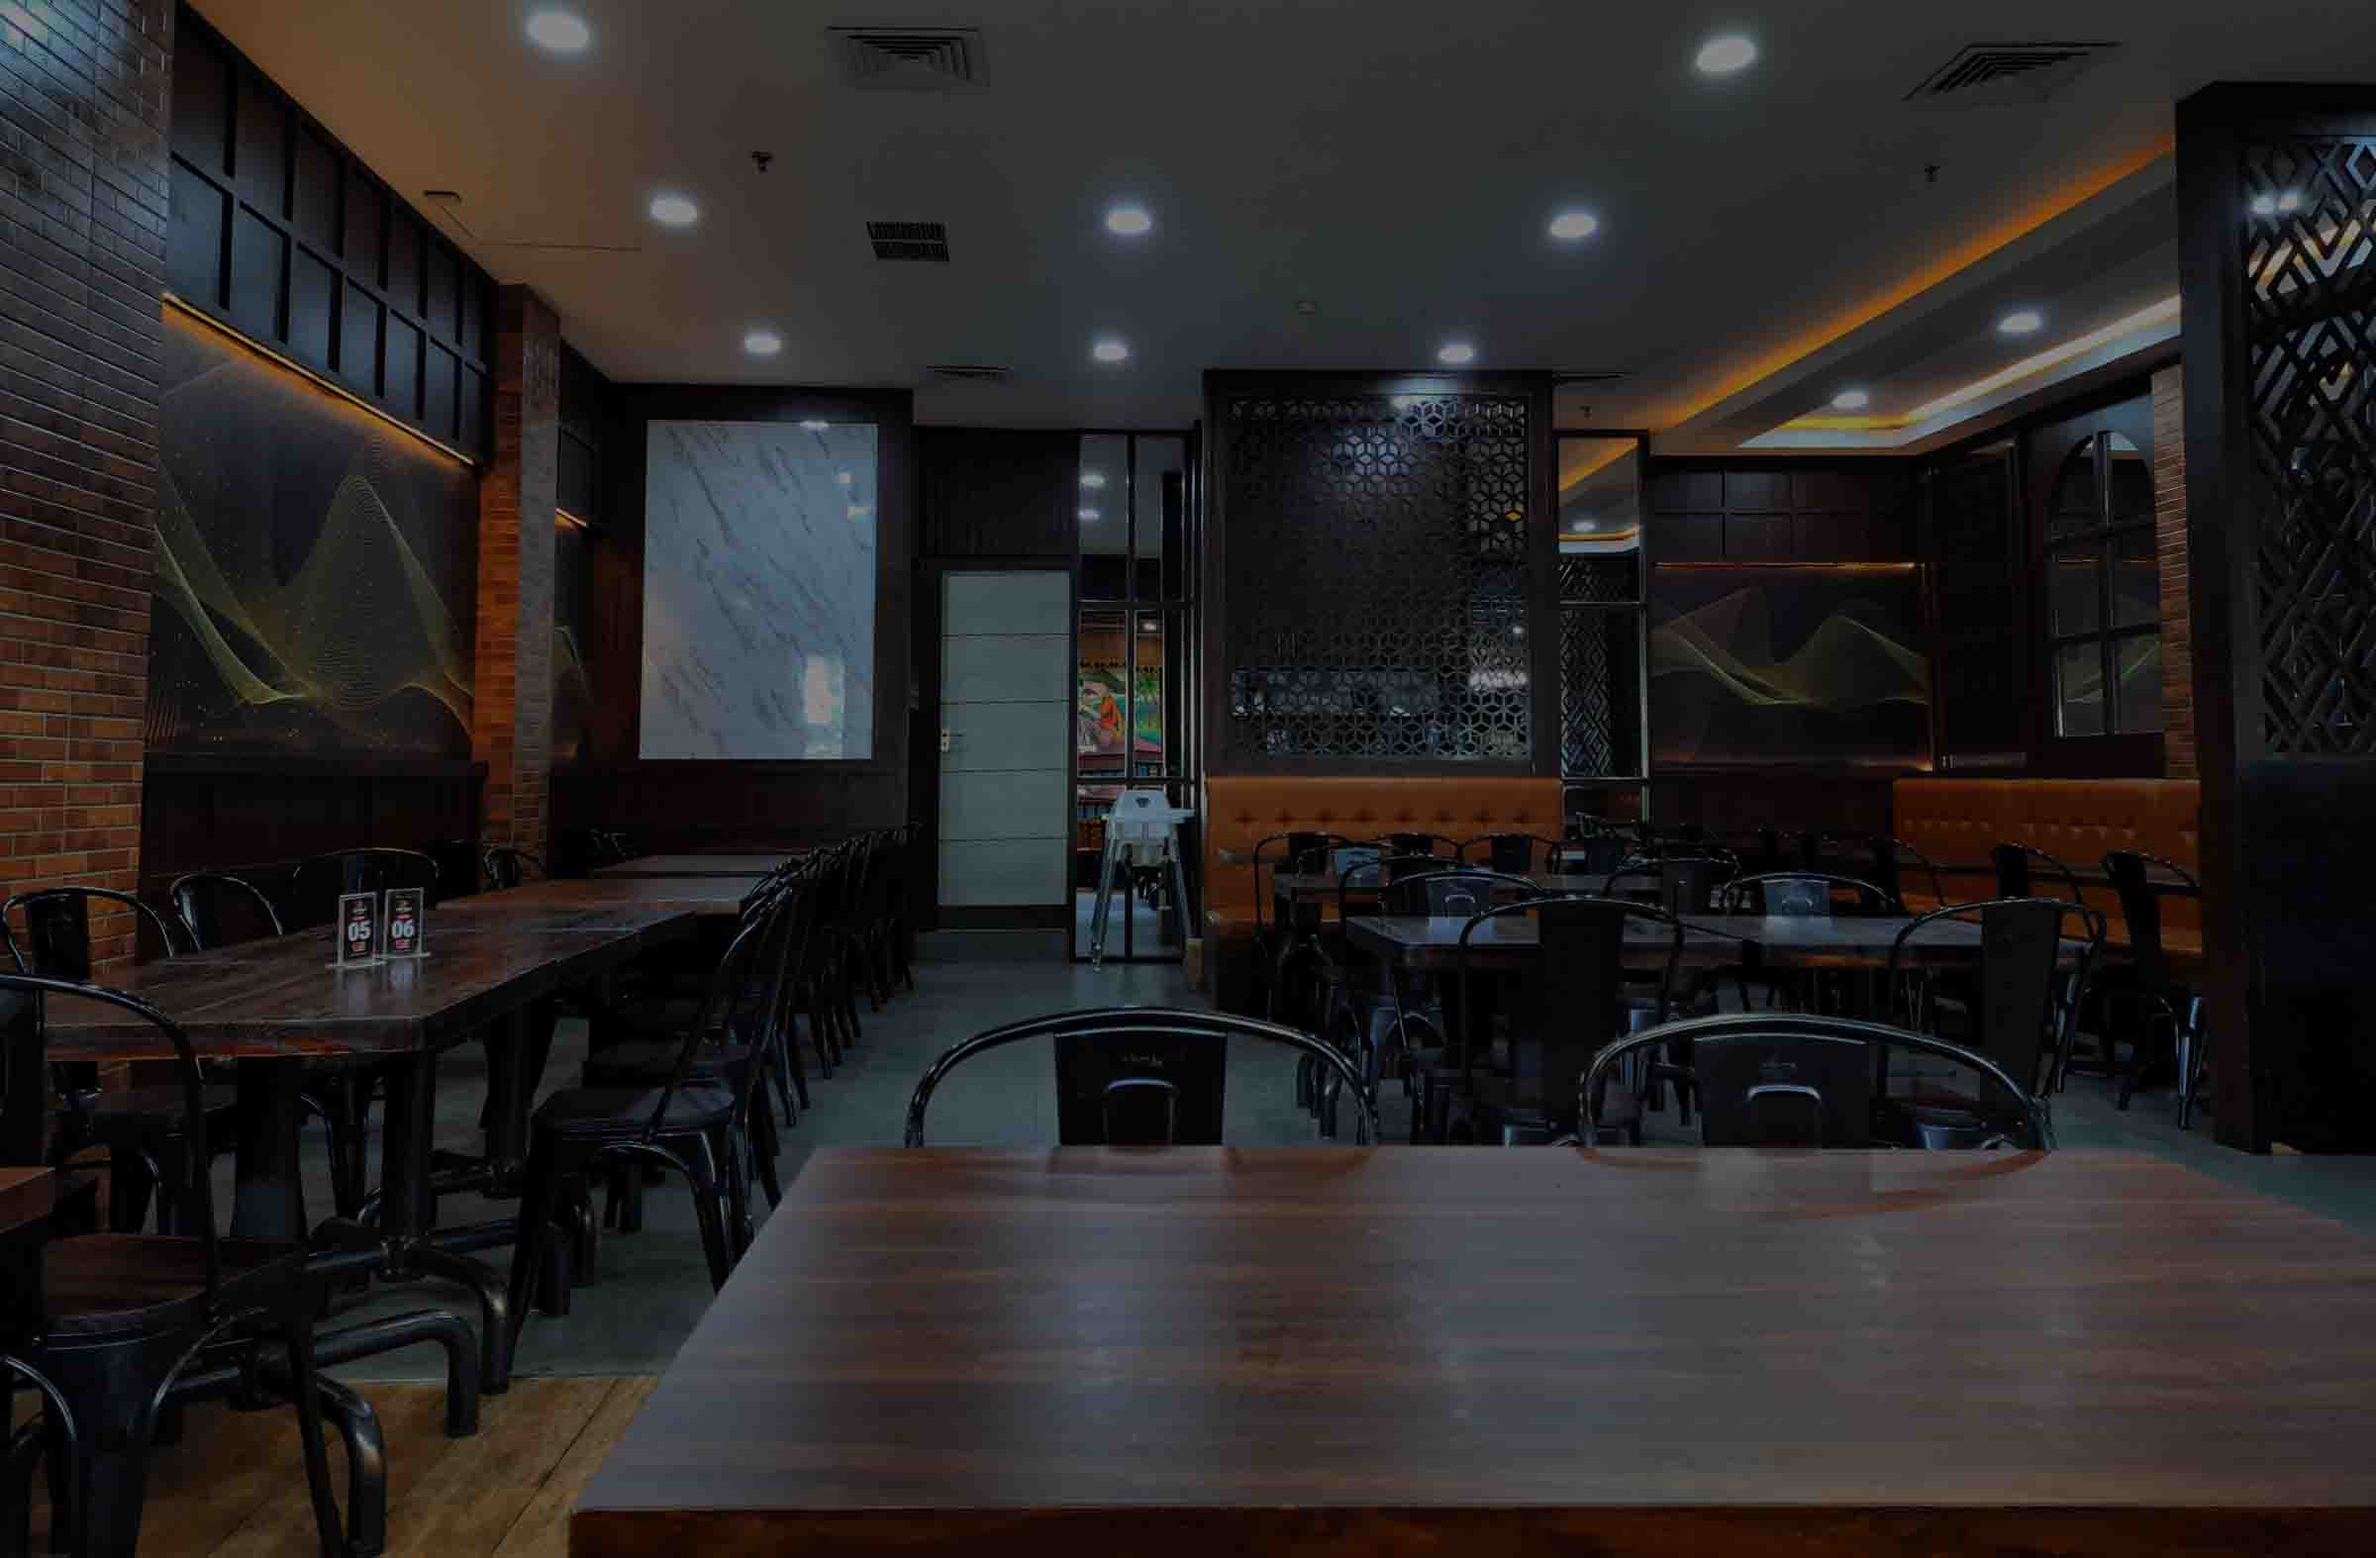
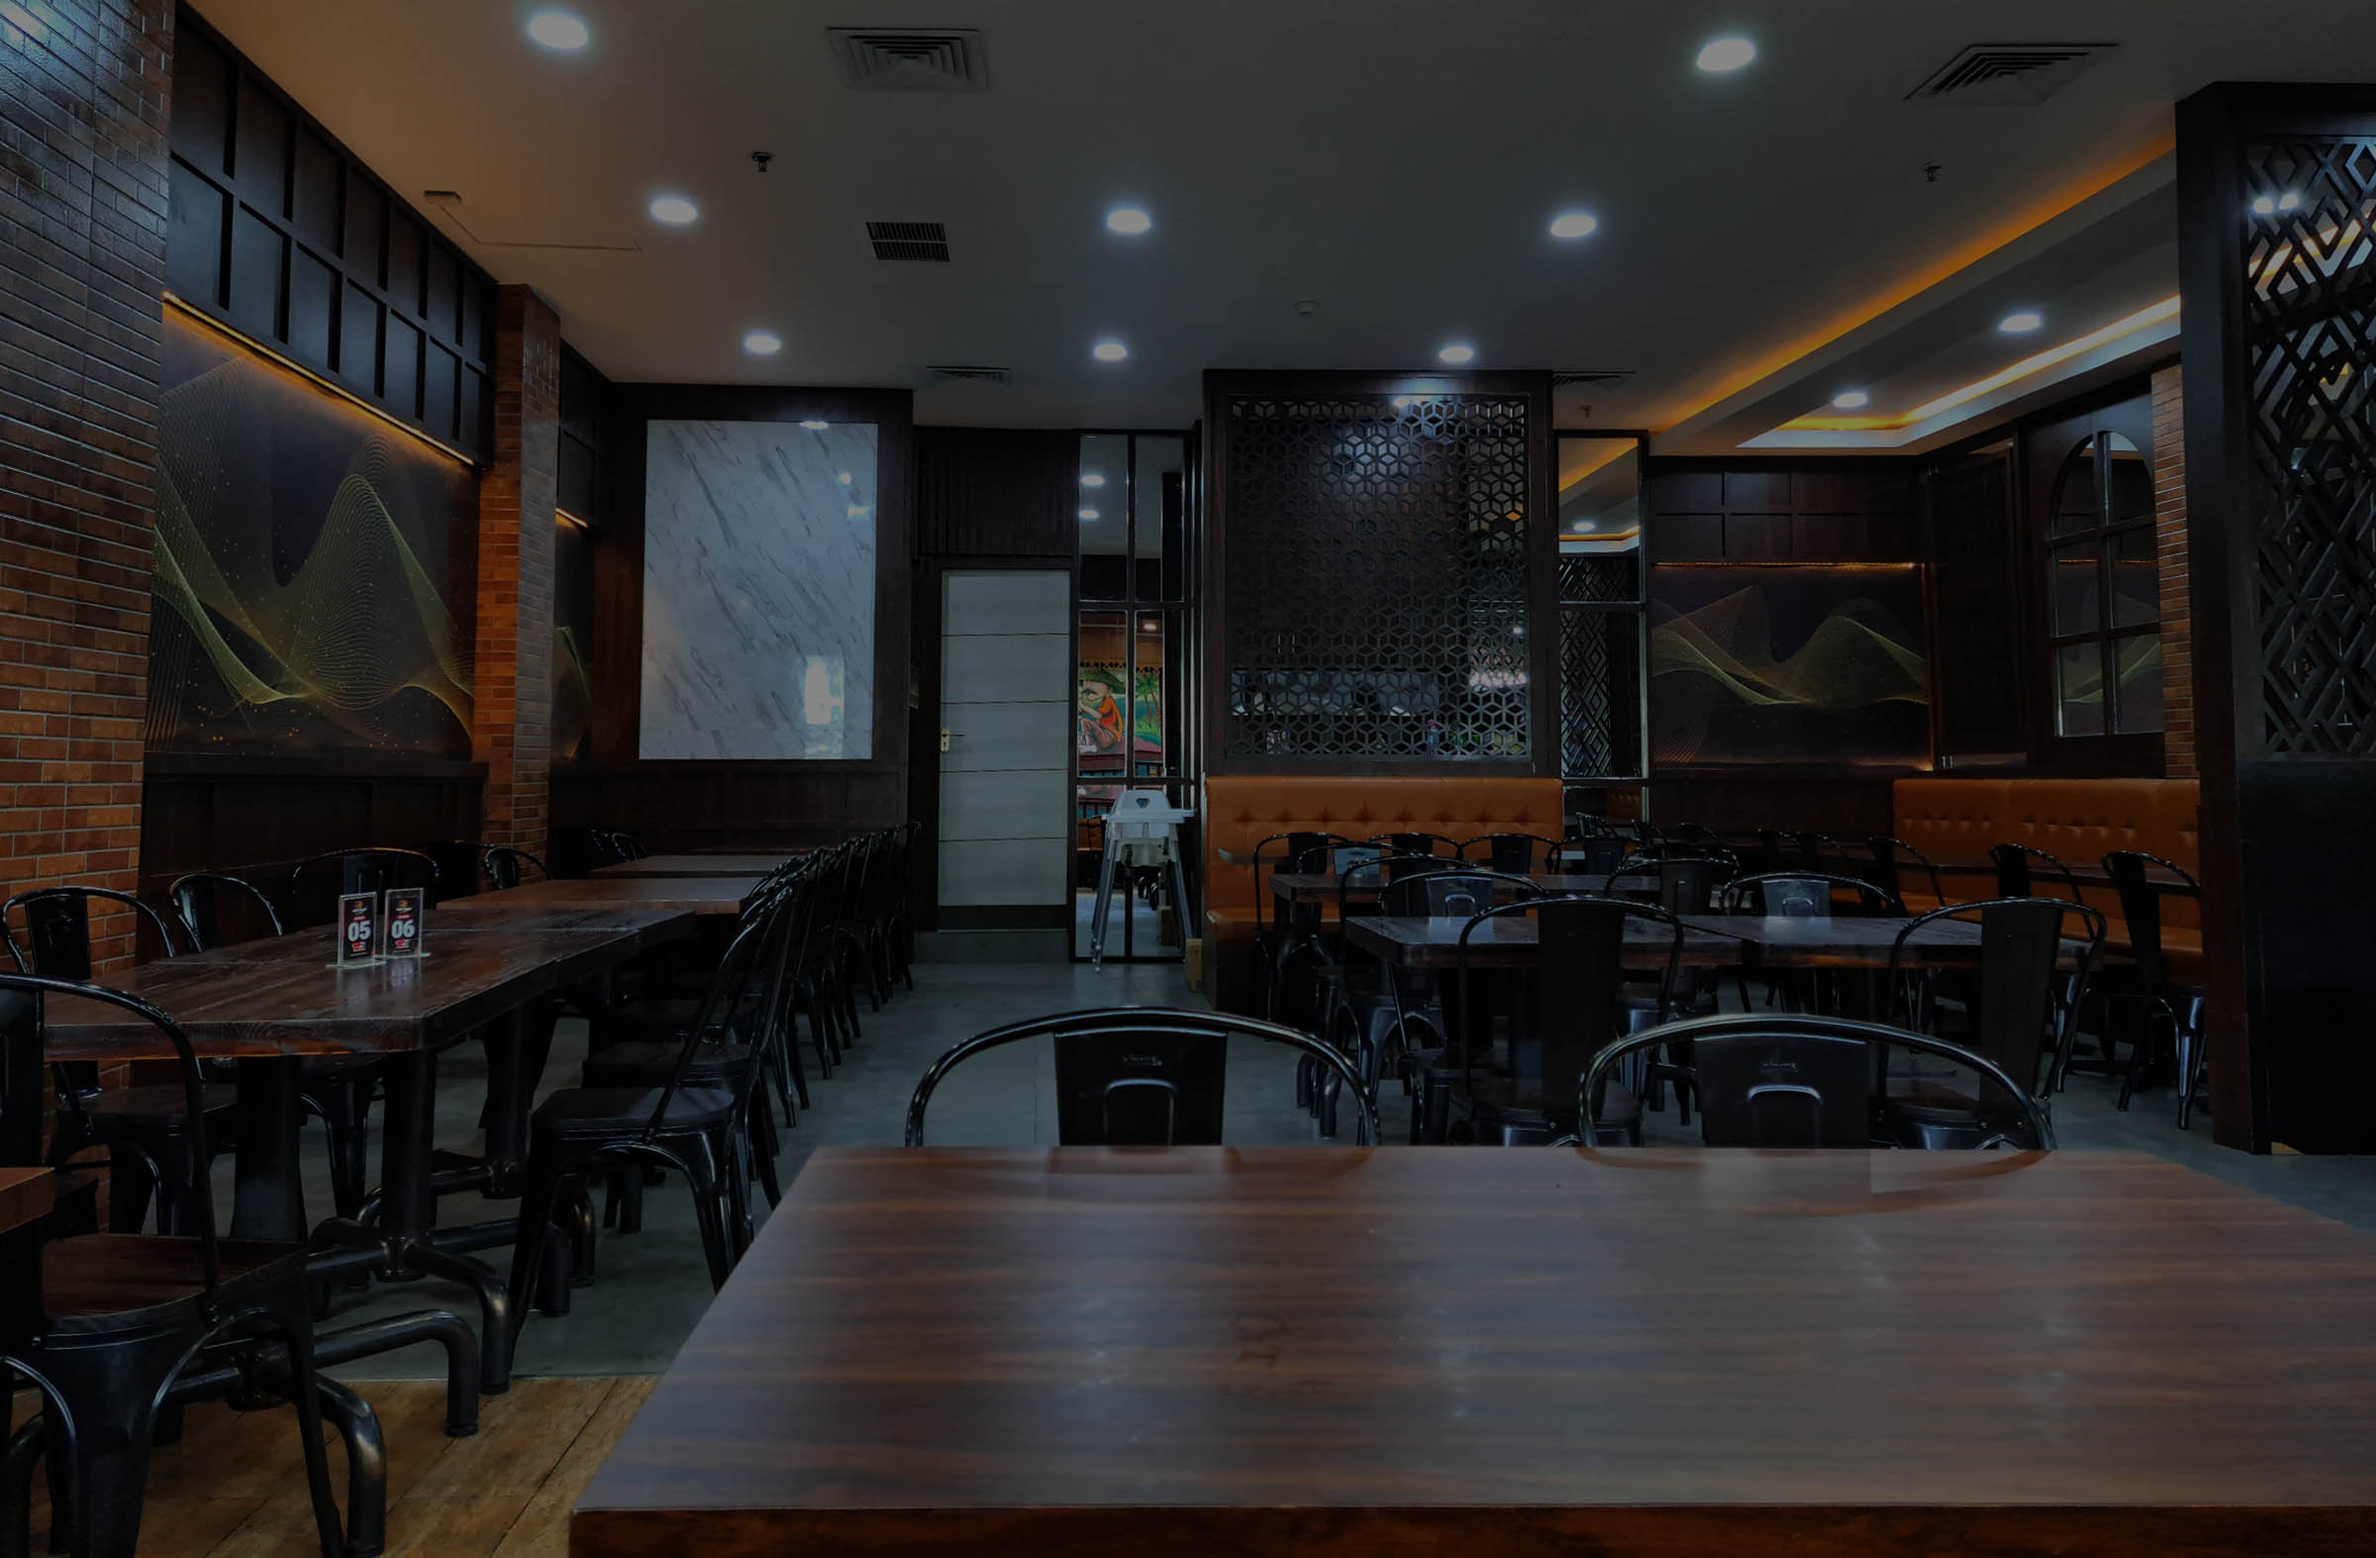
mengembalikan background

diff --git a/css/style.css b/css/style.css
@@ -95,23 +95,7 @@ body {
   background-size: cover;
   background-position: center;
   position: relative;
-  animation: animate 17s ease-in-out infinite;
-}
-
-@keyframes animate {
-  0%,
-  100% {
-    background-image: url(../img/outlet.jpg);
-  }
-  25% {
-    background-image: url(../img/outlet2.jpg);
-  }
-  50% {
-    background-image: url(../img/outlet3.jpg);
-  }
-  75% {
-    background-image: url(../img/outlet4.jpg);
-  }
+  background-image: url(../img/outlet.jpg);
 }
 
 .hero::after {
